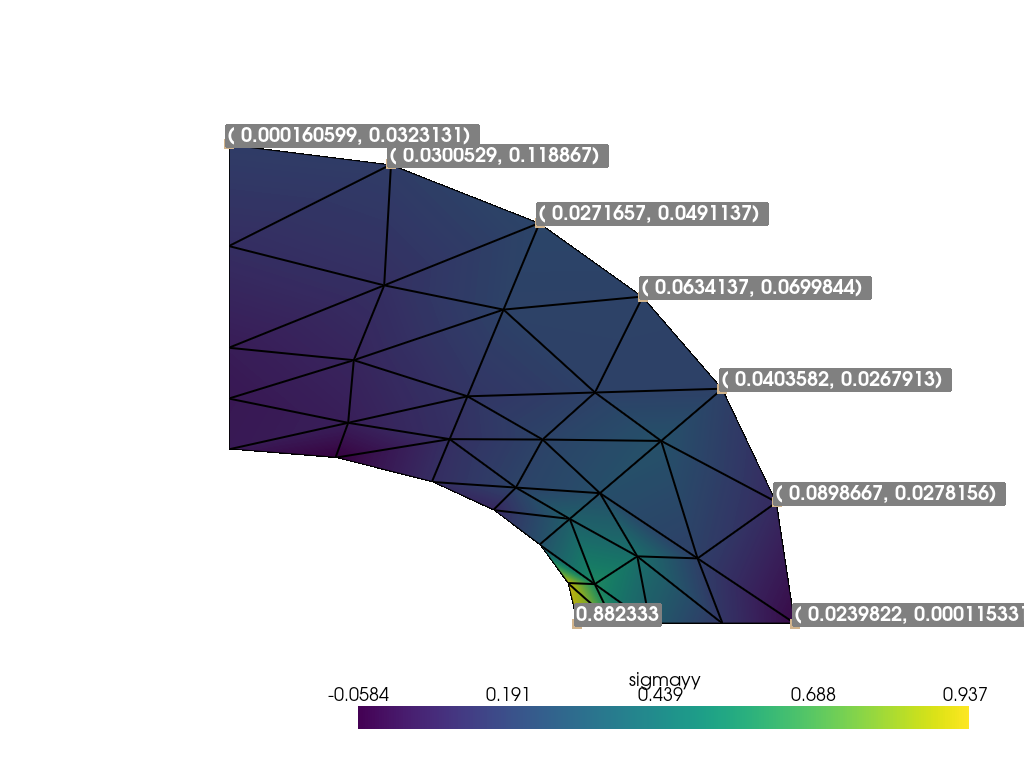
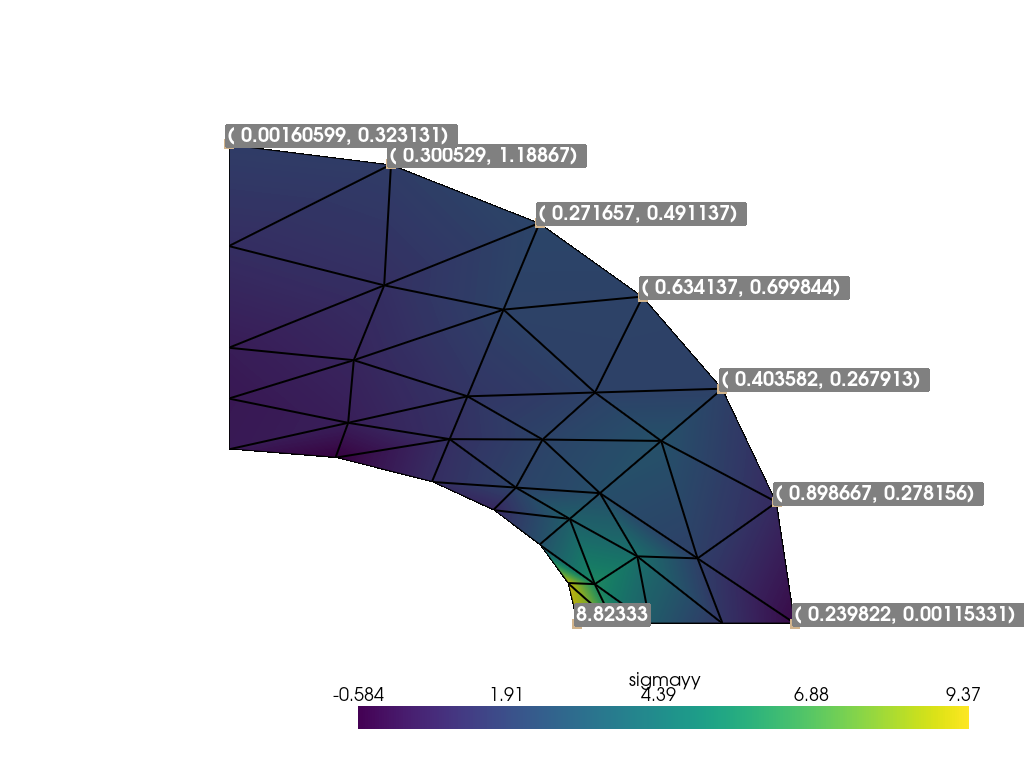
Fix force

diff --git a/benchmarks_data/structure/elliptic_membrane/GetFEM/coarse-quadrilateron-1d.py b/benchmarks_data/structure/elliptic_membrane/GetFEM/coarse-quadrilateron-1d.py
@@ -35,7 +35,7 @@ mfrhs.set_classical_fem(elements_degree)
 
 mim = gf.MeshIm(mesh, elements_degree * 2)
 
-F = mfrhs.eval("[10.0 * 0.01, 0.0, 0.0, 10.0 * 0.01]")  # 10.0 (N/mm2) * 0.01 (mm)
+F = mfrhs.eval("[10.0 * 0.1, 0.0, 0.0, 10.0 * 0.1]")  # F (N/mm2) * depth (mm)
 
 md = gf.Model("real")
 md.add_fem_variable("u", mfu)

diff --git a/benchmarks_data/structure/elliptic_membrane/GetFEM/coarse-quadrilateron-2d.py b/benchmarks_data/structure/elliptic_membrane/GetFEM/coarse-quadrilateron-2d.py
@@ -35,7 +35,7 @@ mfrhs.set_classical_fem(elements_degree)
 
 mim = gf.MeshIm(mesh, elements_degree * 2)
 
-F = mfrhs.eval("[10.0 * 0.01, 0.0, 0.0, 10.0 * 0.01]")  # 10.0 (N/mm2) * 0.01 (mm)
+F = mfrhs.eval("[10.0 * 0.1, 0.0, 0.0, 10.0 * 0.1]")  # F (N/mm2) * depth (mm)
 
 md = gf.Model("real")
 md.add_fem_variable("u", mfu)

diff --git a/benchmarks_data/structure/elliptic_membrane/GetFEM/coarse-triangle-1d.py b/benchmarks_data/structure/elliptic_membrane/GetFEM/coarse-triangle-1d.py
@@ -35,7 +35,7 @@ mfrhs.set_classical_fem(elements_degree)
 
 mim = gf.MeshIm(mesh, elements_degree * 2)
 
-F = mfrhs.eval("[10.0 * 0.01, 0.0, 0.0, 10.0 * 0.01]")  # 10.0 (N/mm2) * 0.01 (mm)
+F = mfrhs.eval("[10.0 * 0.1, 0.0, 0.0, 10.0 * 0.1]")  # F (N/mm2) * depth (mm)
 
 md = gf.Model("real")
 md.add_fem_variable("u", mfu)

diff --git a/benchmarks_data/structure/elliptic_membrane/GetFEM/coarse-triangle-2d.py b/benchmarks_data/structure/elliptic_membrane/GetFEM/coarse-triangle-2d.py
@@ -35,7 +35,7 @@ mfrhs.set_classical_fem(elements_degree)
 
 mim = gf.MeshIm(mesh, elements_degree * 2)
 
-F = mfrhs.eval("[10.0 * 0.01, 0.0, 0.0, 10.0 * 0.01]")  # 10.0 (N/mm2) * 0.01 (mm)
+F = mfrhs.eval("[10.0 * 0.1, 0.0, 0.0, 10.0 * 0.1]")  # F (N/mm2) * depth (mm)
 
 md = gf.Model("real")
 md.add_fem_variable("u", mfu)

diff --git a/benchmarks_data/structure/elliptic_membrane/GetFEM/fine-quadrilateron-1d.py b/benchmarks_data/structure/elliptic_membrane/GetFEM/fine-quadrilateron-1d.py
@@ -35,7 +35,7 @@ mfrhs.set_classical_fem(elements_degree)
 
 mim = gf.MeshIm(mesh, elements_degree * 2)
 
-F = mfrhs.eval("[10.0 * 0.01, 0.0, 0.0, 10.0 * 0.01]")  # 10.0 (N/mm2) * 0.01 (mm)
+F = mfrhs.eval("[10.0 * 0.1, 0.0, 0.0, 10.0 * 0.1]")  # F (N/mm2) * depth (mm)
 
 md = gf.Model("real")
 md.add_fem_variable("u", mfu)

diff --git a/benchmarks_data/structure/elliptic_membrane/GetFEM/fine-quadrilateron-2d.py b/benchmarks_data/structure/elliptic_membrane/GetFEM/fine-quadrilateron-2d.py
@@ -35,7 +35,7 @@ mfrhs.set_classical_fem(elements_degree)
 
 mim = gf.MeshIm(mesh, elements_degree * 2)
 
-F = mfrhs.eval("[10.0 * 0.01, 0.0, 0.0, 10.0 * 0.01]")  # 10.0 (N/mm2) * 0.01 (mm)
+F = mfrhs.eval("[10.0 * 0.1, 0.0, 0.0, 10.0 * 0.1]")  # F (N/mm2) * depth (mm)
 
 md = gf.Model("real")
 md.add_fem_variable("u", mfu)

diff --git a/benchmarks_data/structure/elliptic_membrane/GetFEM/fine-triangle-1d.py b/benchmarks_data/structure/elliptic_membrane/GetFEM/fine-triangle-1d.py
@@ -35,7 +35,7 @@ mfrhs.set_classical_fem(elements_degree)
 
 mim = gf.MeshIm(mesh, elements_degree * 2)
 
-F = mfrhs.eval("[10.0 * 0.01, 0.0, 0.0, 10.0 * 0.01]")  # 10.0 (N/mm2) * 0.01 (mm)
+F = mfrhs.eval("[10.0 * 0.1, 0.0, 0.0, 10.0 * 0.1]")  # F (N/mm2) * depth (mm)
 
 md = gf.Model("real")
 md.add_fem_variable("u", mfu)

diff --git a/benchmarks_data/structure/elliptic_membrane/GetFEM/fine-triangle-2d.py b/benchmarks_data/structure/elliptic_membrane/GetFEM/fine-triangle-2d.py
@@ -35,7 +35,7 @@ mfrhs.set_classical_fem(elements_degree)
 
 mim = gf.MeshIm(mesh, elements_degree * 2)
 
-F = mfrhs.eval("[10.0 * 0.01, 0.0, 0.0, 10.0 * 0.01]")  # 10.0 (N/mm2) * 0.01 (mm)
+F = mfrhs.eval("[10.0 * 0.1, 0.0, 0.0, 10.0 * 0.1]")  # F (N/mm2) * depth (mm)
 
 md = gf.Model("real")
 md.add_fem_variable("u", mfu)
